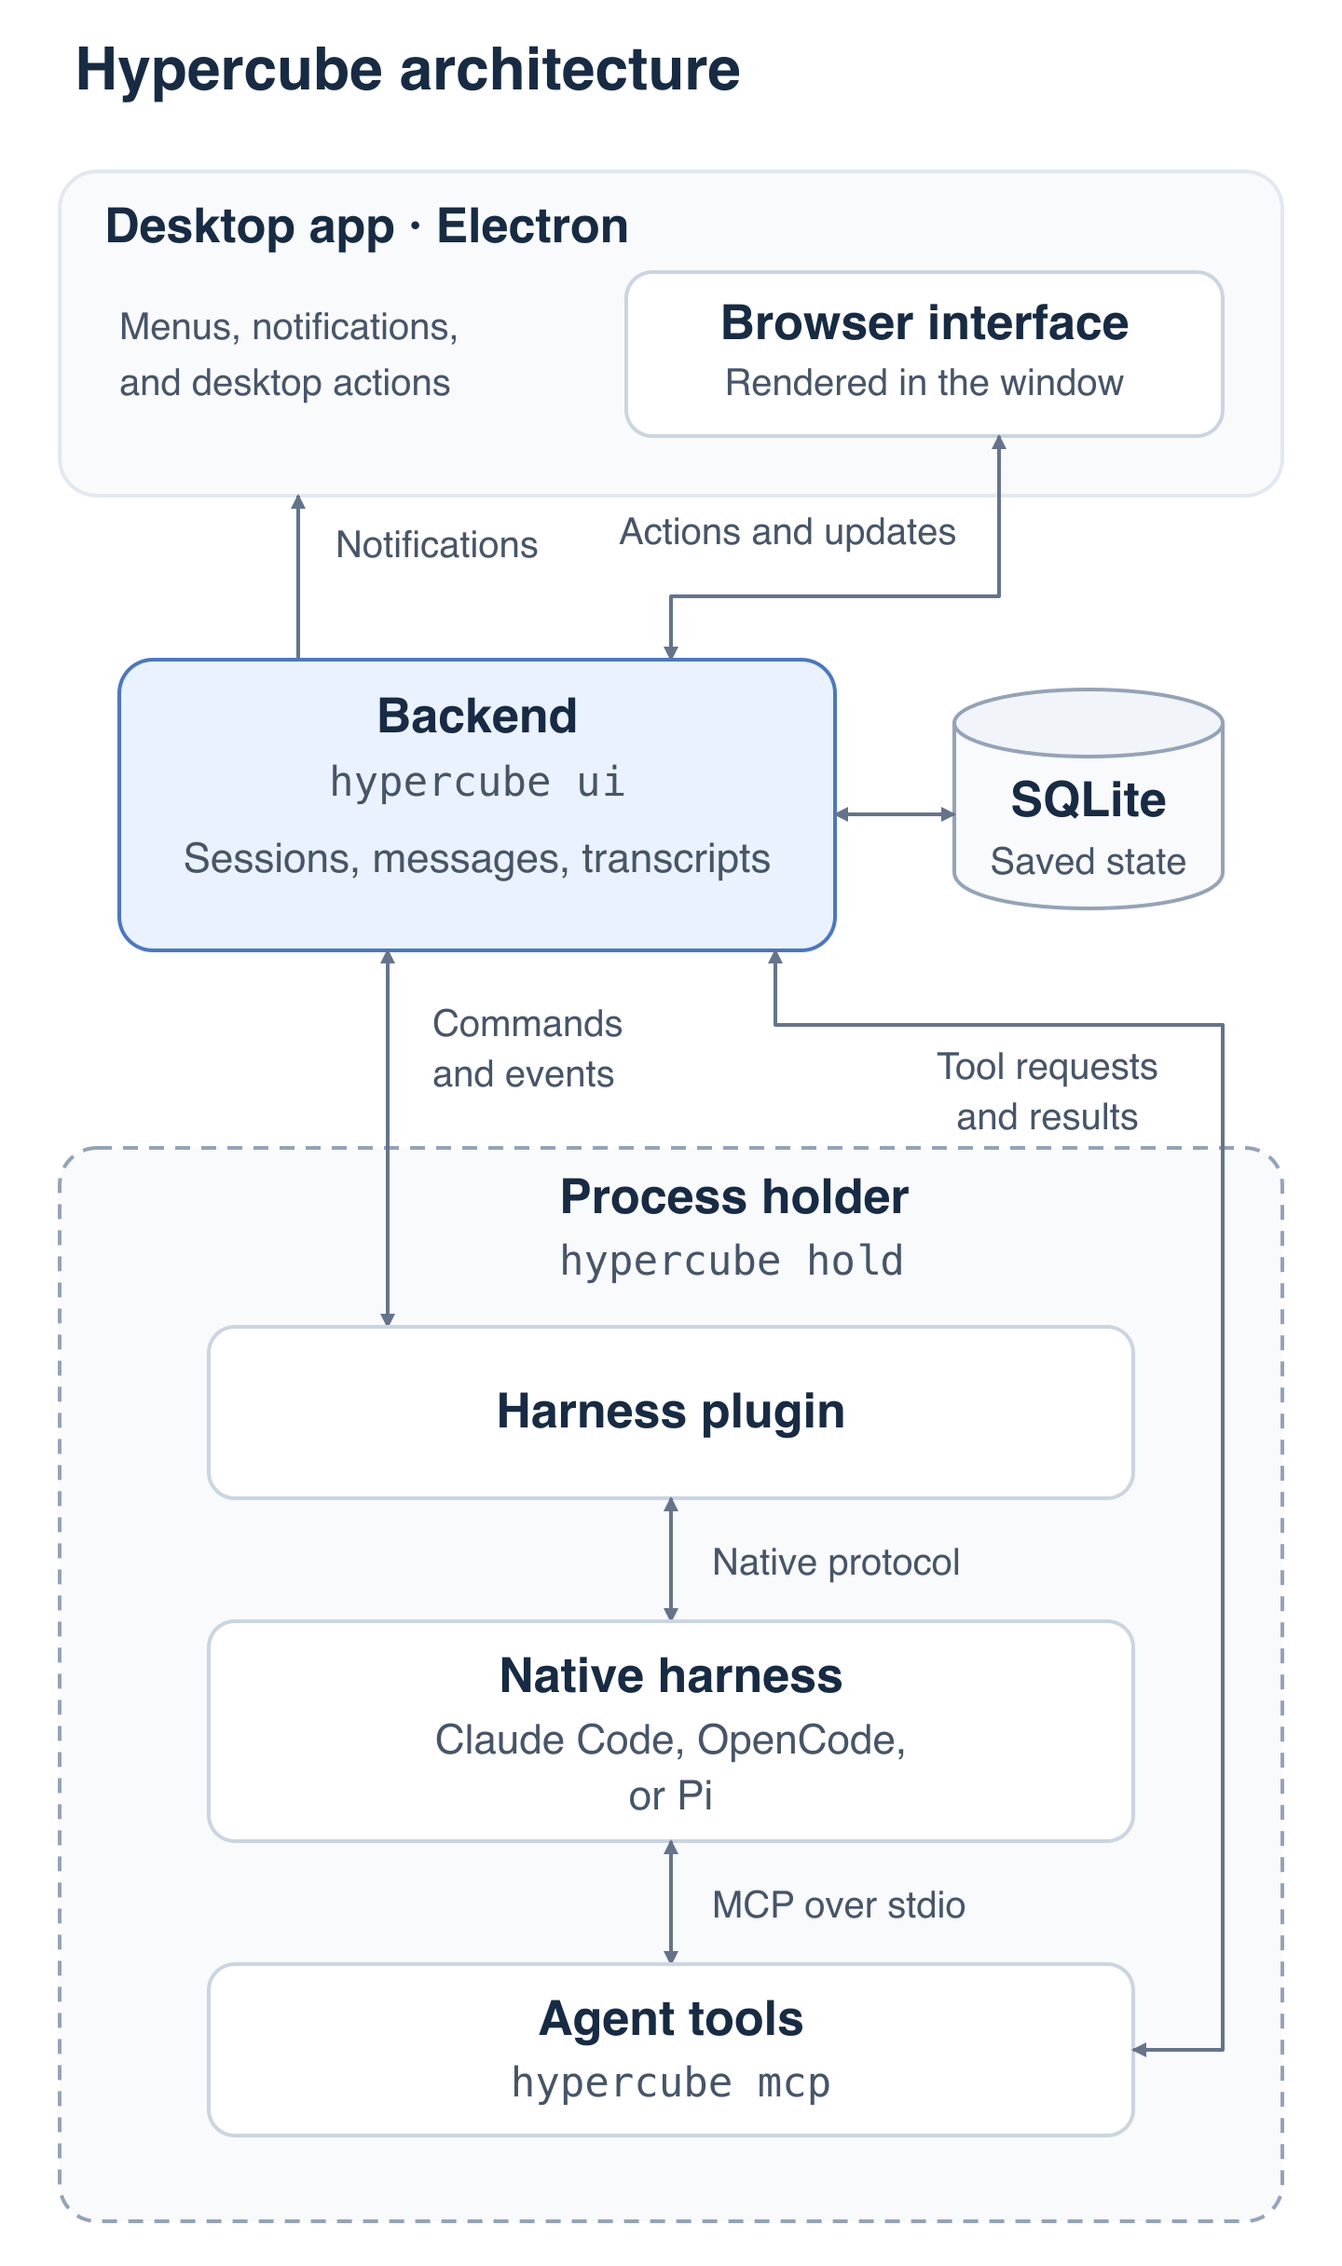
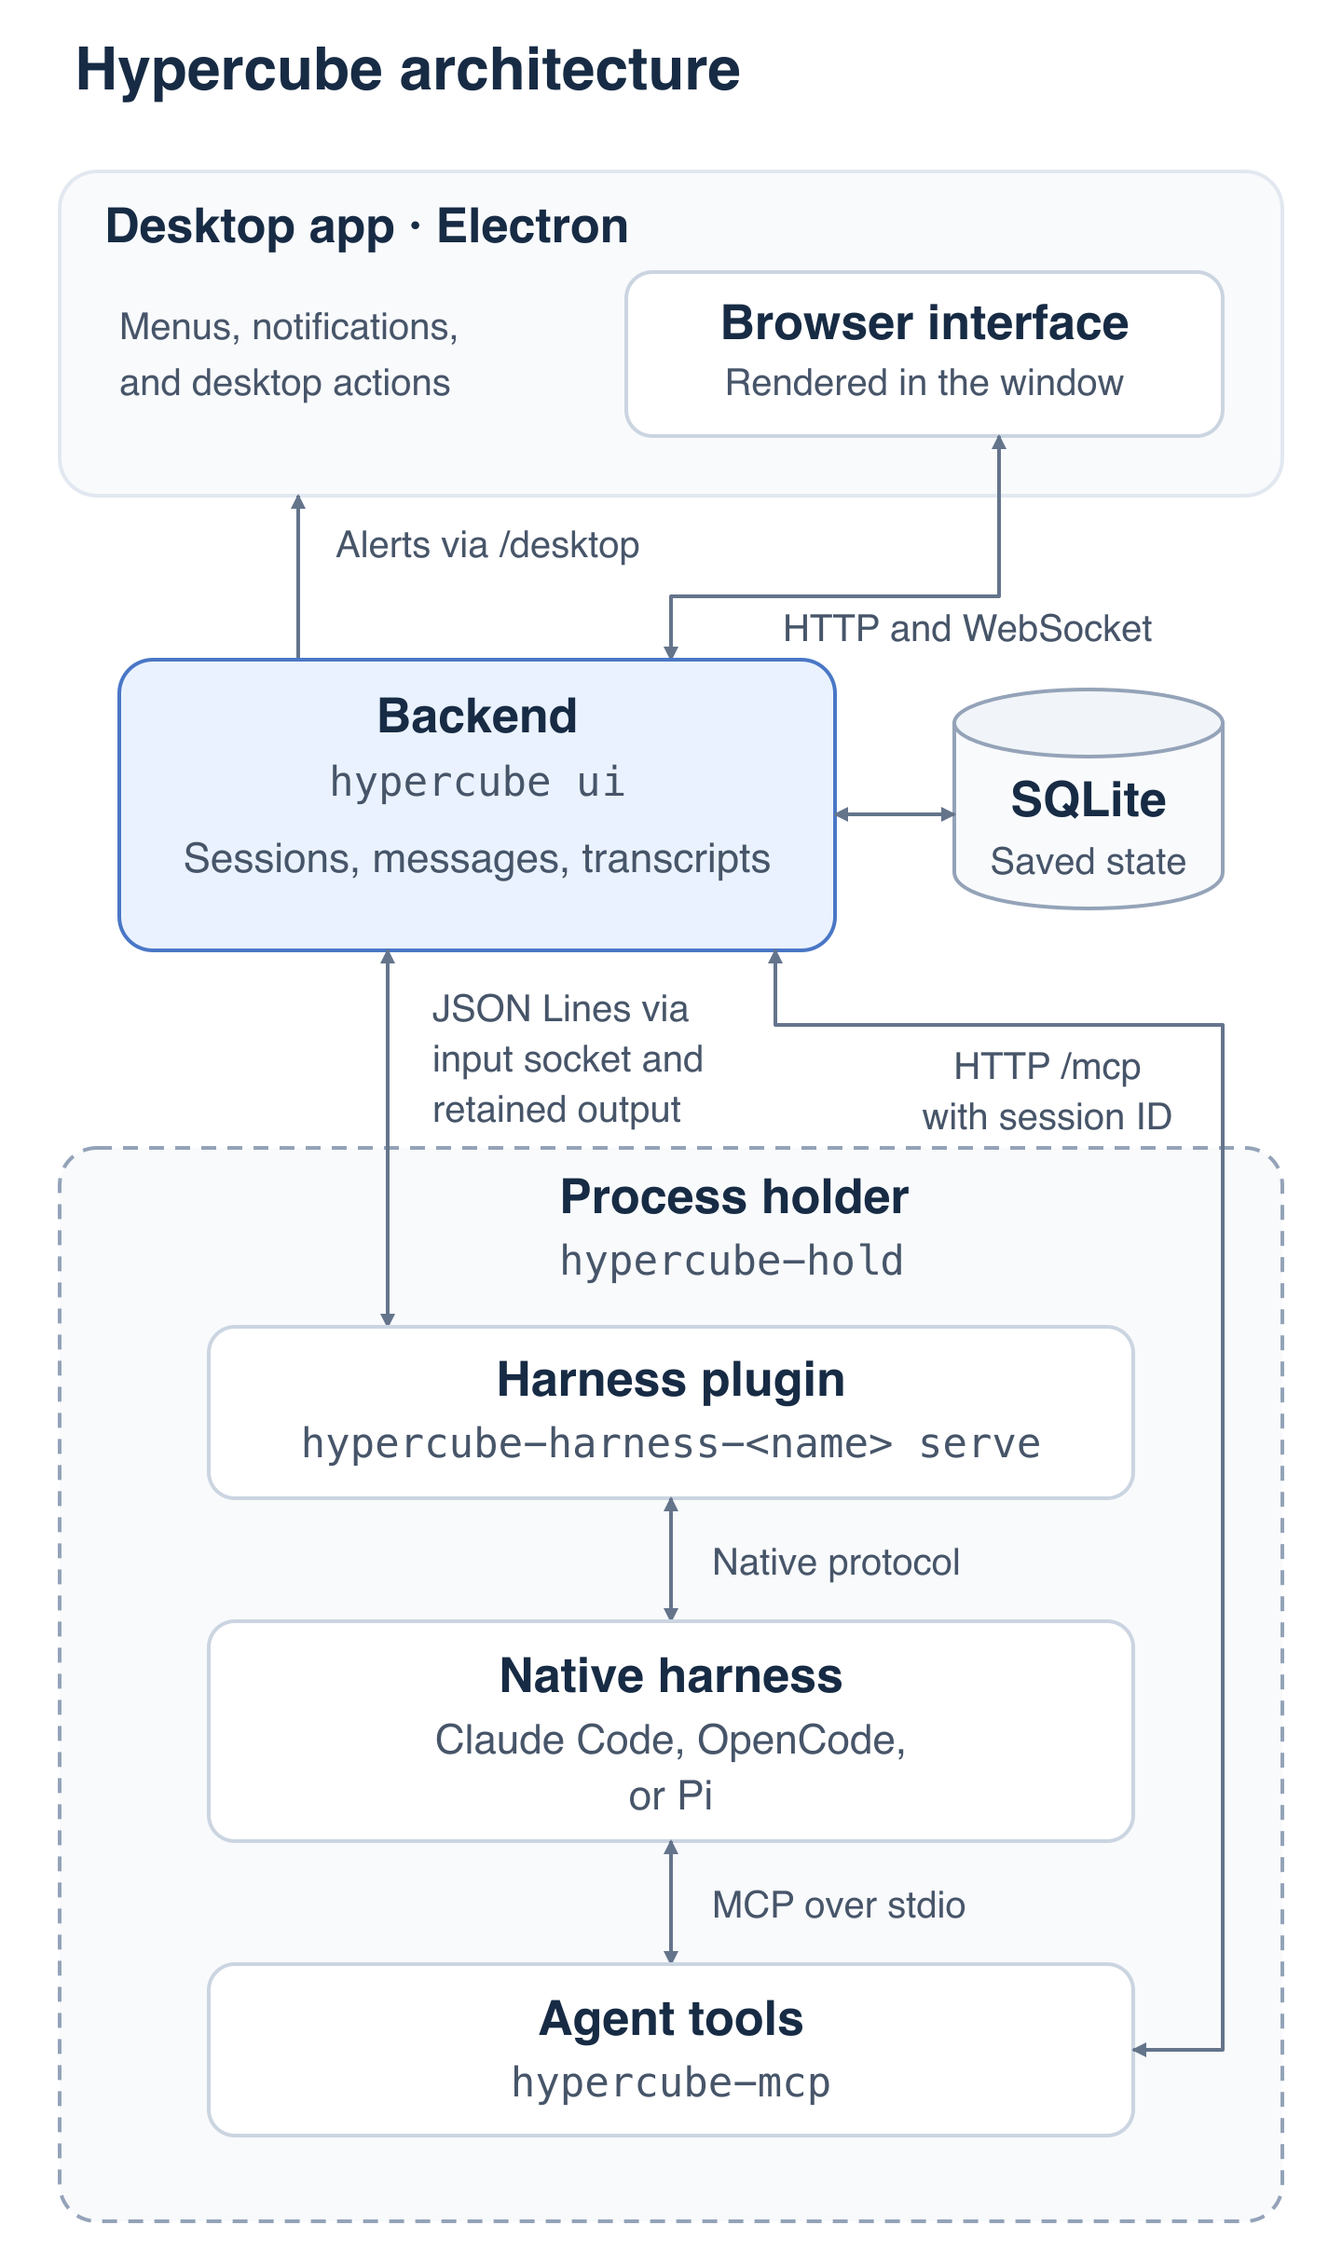
Refresh architecture diagram and audit current documentation

diff --git a/agents/architecture.md b/agents/architecture.md
@@ -4,26 +4,54 @@
 harnesses execute the agents' work. Plugins connect the two, translating each
 harness's protocol into Hypercube commands and transcript events.
 
-![The Electron desktop app contains the browser interface and connects to the
-backend, which owns SQLite state. Each agent runs under a separate process
-holder, with a harness plugin, native harness, and MCP tools that call back
-into the backend.](images/architecture.png)
+![The Electron desktop app connects to hypercube ui, the only SQLite writer.
+Each agent's hypercube-hold runs a harness plugin and native harness.
+The harness's hypercube-mcp bridge calls back into the backend over HTTP.
+Panel shells use separate holders, not shown.](images/architecture.png)
 
 The holder keeps the agent processes alive across backend restarts. Agent tools
 return to the same backend that handles user actions; only the backend writes
 to SQLite.
 
+## Executables and process boundaries
+
+These are separate programs, shipped together in the application bundle:
+
+| Program | Responsibility | Started by |
+| --- | --- | --- |
+| `hypercube ui [port]` | Backend, session runtime, HTTP server, and SQLite state. The default port is `4280`. | Login service or a terminal. |
+| `Hypercube Desktop` (macOS), `hypercube-desktop` (Linux) | Electron window, menus, notifications, and desktop actions. | The user; connects to an independently running backend. |
+| `hypercube-hold` | Detached holder for one plugin or panel shell; owns its input, retained output, and exit record. | Backend, once per agent launch or panel shell. |
+| `hypercube-harness-<name> serve` | Adapter for Claude Code, OpenCode, or Pi. | An agent's holder; the plugin starts the native harness. |
+| `hypercube-mcp` | Stdio MCP bridge to the backend's `/mcp` HTTP route. | Native harness, configured by the plugin. |
+
+`hypercube` also provides `version`; the holder and MCP bridge are not
+subcommands of it. The backend resolves its executable's symlinks and finds
+the helpers and plugins beside the real executable, not on `PATH`. Native
+harness executables are installed separately and found on `PATH`.
+
+Browser actions use HTTP and state updates use a WebSocket. The desktop app
+has its own `/desktop` WebSocket for alerts. Plugin JSON Lines pass through
+the holder's Unix input socket and retained output files, allowing a new
+backend to attach without replacing the plugin. MCP requests go directly
+from the bridge to the backend over loopback HTTP, with the session ID in a
+header; neither helpers nor plugins write Hypercube's database.
+
+See [program discovery](../cmd/hypercube/programs.go),
+[the plugin client](../internal/harnessclient/client.go), and
+[the MCP bridge](../internal/mcpbridge/bridge.go).
+
 ## Plugin protocol
 
-Each `hypercube-harness-<name>` executable runs beside `hypercube`. The app
-starts it with `serve` and exchanges commands and events as JSON Lines. The
-plugin owns the native protocol; the core and browser interface do not name
-individual harnesses.
+Each `hypercube-harness-<name>` executable runs beside `hypercube`. The backend
+starts it with `serve` under a holder and exchanges commands and events as
+JSON Lines. The plugin owns the native protocol; the core and browser interface
+do not name individual harnesses.
 
 The [protocol types](../internal/harness/protocol.go) define commands, replies,
 transcript items, and usage fields. Native mappings live in the
 [Claude Code](../plugins/claude), [OpenCode](../plugins/opencode), and
-[Pi](../plugins/pi) plugins. Restart a session to
+[Pi](../plugins/pi) plugins. Use Restart Agent to
 load a newly installed plugin.
 
 Two one-shot commands, defined in [discovery](../internal/harness/discovery.go),
@@ -56,10 +84,10 @@ bugs are documented there as historical context, not current support.
 ## Why agents outlive the window
 
 An agent plugin runs under a `hypercube-hold` process that owns its input and
-output independently of the app. Panel shells use holders too. A service
-restart, development rebuild, SIGTERM, or app crash therefore leaves those
-processes alive. On startup, the app attaches to surviving launches and
-finishes those that exited or were lost.
+output independently of the backend. Panel shells use separate holders too.
+A service restart, development rebuild, SIGTERM, or backend crash therefore
+leaves those processes alive. On startup, the backend attaches to surviving
+launches and finishes those that exited or were lost.
 
 Each session's agent starts when the session is opened, prompted, or sent a
 message, and ends after the session has been idle and unviewed for 15 minutes.
@@ -77,15 +105,15 @@ See [hold](../internal/hold/hold.go) and
 ## One owner for user actions and agent tools
 
 Each harness starts `hypercube-mcp` as a stdio MCP server. It forwards tool
-requests to the app with the session ID. Browser actions reach the same session
-runtime, so both use one owner of lifecycle and saved state. The runtime
+requests to the backend with the session ID. Browser actions reach the same
+session runtime, so both use one owner of lifecycle and saved state. The runtime
 serializes its operations, releasing its lock before waiting on a plugin:
-a harness can call back into an app tool while a command is in flight.
+a harness can call back into a Hypercube tool while a command is in flight.
 
-The app records commands before sending them. A reply is applied in the same
-transaction that removes its command. After reconnection, unanswered commands
-are resent in ID order. Queued messages are delivered one at a time and removed
-when the plugin accepts them. Acceptance means the harness took the input,
+The backend records commands before sending them. A reply is applied in the
+same transaction that removes its command. After reconnection, unanswered
+commands are resent in ID order. Queued messages are delivered one at a time
+and removed when the plugin accepts them. Acceptance means the harness took the input,
 including into a native queue; it does not mean the model processed it.
 
 The [session runtime](../internal/session/runtime.go),

diff --git a/web/content/features.md b/web/content/features.md
@@ -7,13 +7,13 @@ Hypercube is a macOS and Linux app for coordinating local coding agents.
 
 | What you can do | Learn more |
 | --- | --- |
-| Run Claude Code, OpenCode, and Pi with their own models and credentials. | [Harness differences](/docs/harness-support/) |
-| Send prompts, images, corrections, and answers to questions or approvals. | [Manage sessions](/docs/usage/) |
-| Delegate a bounded task or request an independent review. | [Work with a team](/docs/teamwork/) |
-| Share a checkout or isolate edits in separate Git worktrees. | [Sessions and working copies](/docs/introduction/) |
-| Browse files, search text, inspect diffs, and use a session terminal. | [Review files and changes](/docs/review-changes/) |
-| Keep work running after the app closes and return to saved conversations. | [What keeps running](/docs/lifecycle/) |
-| Arrange split panes, change appearance, and navigate with shortcuts. | [Interface reference](/docs/interface/) |
+| Run Claude Code, OpenCode, and Pi with their own models and credentials. | [Harness differences](docs/harness-support.md) |
+| Send prompts, images, corrections, and answers to questions or approvals. | [Manage sessions](docs/usage.md) |
+| Delegate a bounded task or request an independent review. | [Work with a team](docs/teamwork.md) |
+| Share a checkout or isolate edits in separate Git worktrees. | [Sessions and working copies](docs/introduction.md) |
+| Browse files, search text, inspect diffs, and use a session terminal. | [Review files and changes](docs/review-changes.md) |
+| Keep work running after the app closes and return to saved conversations. | [What keeps running](docs/lifecycle.md) |
+| Arrange split panes, change appearance, and navigate with shortcuts. | [Interface reference](docs/interface.md) |
 
-Start with [installation](/docs/installation/) and the
-[first-session walkthrough](/docs/getting-started/).
+Start with [installation](docs/installation.md) and the
+[first-session walkthrough](docs/getting-started.md).

diff --git a/agents/development.md b/agents/development.md
@@ -13,12 +13,12 @@ Documentation procedures are in [documentation](documentation.md).
 - `cmd/hypercube-mcp/` — the MCP bridge each agent's harness runs.
 - `cmd/hypercube-hold/` — the holder that runs agents' plugins and panel shells.
 - `desktop/` — the Electron desktop app, a client of the backend.
-- `internal/` — one package per concern: `config`, `desktop`, `harness`,
+- `internal/` — one package per concern: `buildinfo`, `config`, `desktop`, `harness`,
   `harnessclient`, `hold`, `mcp`, `mcpbridge`, `report`, `session`, `store`,
   `terminal`, `ui`, `workspace`.
 - `plugins/` — the Claude Code, OpenCode, and Pi harness plugins. The
   core names no harness. `plugins/scripted` plays documentation screenshot
-  scenes and never ships.
+  scenes and never ships; `plugins/internal/plugin` holds shared plugin code.
 - `make/` — the macOS and Linux packaging rules the `Makefile` includes.
 - `scripts/dev` — the isolated development session (`make dev`).
 - `scripts/screenshots` — the documentation screenshots (`make screenshots`).
@@ -253,8 +253,8 @@ installs.
 Follow [Run a development copy](../CONTRIBUTING.md#run-a-development-copy).
 Additional controls:
 
-- `make dev-clean` also removes disposable resources and native development
-  conversations, including holders left by a crash.
+- `make dev-clean` also removes disposable state, holders left by a crash, and
+  Claude Code and OpenCode development conversations.
 - `HYPERCUBE_DEV_DIR` and `HYPERCUBE_DEV_PORT` change the directory and port.
 
 See [scripts/dev](../scripts/dev) for cleanup details.

diff --git a/docs/getting-started.md b/docs/getting-started.md
@@ -16,11 +16,12 @@ A workspace groups the sessions for that project in the sidebar.
 ## 2. Choose your coding tool
 
 First add a model in **Settings › Agents › Models**: choose its harness, enter
-the model ID exactly as the harness names it, and list its effort levels from
-lowest to highest. Choose **Save changes**, then choose the model below
-the message box. Leave the effort at its default. Effort controls
-the model's reasoning level; the available choices depend on the harness and
-model.
+the model ID exactly as the harness names it, give it a display title, and list
+its effort levels from lowest to highest. If there are several levels, select
+the default; leave the list empty for a model without effort levels.
+Choose **Save**, then **Save changes**. Choose the model below the message box
+and leave the effort at its default. Effort controls the model's reasoning
+level; the available choices depend on the harness and model.
 
 If the folder is a Git repository, choose **Existing checkout** for this
 walkthrough. The session will read the files already in that folder.

diff --git a/CONTRIBUTING.md b/CONTRIBUTING.md
@@ -17,15 +17,19 @@ needs `rsvg-convert` and the
    cd hypercube
    ```
 
-2. Start the development app:
+2. Start the development copy. On macOS, open the desktop app:
 
    ```sh
    make dev-app
    ```
 
-3. The desktop window opens with separate configuration and state, using a
-   sample repository at `~/projects/hypercube-dev/repo`. This copy does not
-   replace your installed app.
+   On Linux, use `make dev` and open `http://localhost:4281/` in a browser.
+   The `dev-app` script uses the macOS bundle layout; for Linux desktop
+   validation, use the [Linux test environment](agents/development.md#test-on-linux).
+
+3. The development copy has separate configuration and state, using a sample
+   repository at `~/projects/hypercube-dev/repo`. It does not replace your
+   installed app.
 4. Change a source file. Successful rebuilds reload the interface while
    preserving agents and terminal shells. A failed build leaves the last
    successful build running.

diff --git a/web/content/_index.md b/web/content/_index.md
@@ -9,8 +9,8 @@ Hypercube brings Claude Code, OpenCode, and Pi into one app. Use your
 installed tools and existing credentials. Give each session its own model,
 follow its work, and ask agents to help one another.
 
-[Install Hypercube](/docs/installation/) ·
-[Try your first session](/docs/getting-started/)
+[Install Hypercube](docs/installation.md) ·
+[Try your first session](docs/getting-started.md)
 
 ## One task or a team
 
@@ -29,4 +29,4 @@ Browse files, read diffs, search the project, and open a terminal without leavin
 the session. Answer questions and approvals as they arrive. Close the app
 without ending active agents, then return to their saved conversations.
 
-[Read the documentation](/docs/) · [See features](/features/)
+[Read the documentation](/docs/) · [See features](features.md)

diff --git a/docs/configuration.md b/docs/configuration.md
@@ -26,10 +26,10 @@ See [harness requirements](harness-support.md#requirements).
 
 ## Models
 
-Edit the model picker list in **Settings › Agents › Models**. Each entry names
-a harness, its exact model ID, effort levels ordered from lowest to highest,
-and the effort a session starts with. Leave levels empty for a model without an
-effort control.
+Edit the model picker list in **Settings › Agents › Models**. Each entry needs
+a harness, its exact model ID, and a display title. Add effort levels ordered
+from lowest to highest and the effort a session starts with. Leave levels
+empty for a model without an effort control.
 One level is its own default; several levels require a default from the list.
 
 The `models` field holds the list, empty by default. Each entry is an object

diff --git a/agents/documentation.md b/agents/documentation.md
@@ -37,6 +37,19 @@ Use [Diátaxis](https://diataxis.fr/) to choose a page's purpose:
 
 For prose-only changes, inspect the diff and links; do not run code checks.
 
+## Architecture diagram
+
+The diagram in `agents/architecture.md` uses `agents/images/architecture.png`,
+rendered from the editable `agents/images/architecture.svg`. Update the SVG
+against the current executable names, process ownership, and transports, then
+regenerate the PNG from the repository root with librsvg:
+
+```sh
+rsvg-convert --zoom 2 -o agents/images/architecture.png agents/images/architecture.svg
+```
+
+Open the PNG to check labels and arrows. Commit both source and rendered image.
+
 ## Screenshots
 
 Run `make screenshots` only when captures need changing. It regenerates

diff --git a/docs/upgrades.md b/docs/upgrades.md
@@ -44,9 +44,11 @@ not convert saved state back to that version's format.
 
 ## Load new plugins into existing sessions
 
-An agent that survived the upgrade still uses the plugin it started with.
-Choose **Restart Agent** in that session's context menu to load the installed
-plugin and resume its conversation. A turn in progress is interrupted.
+An agent that survived the upgrade still uses the plugin, holder, and MCP
+bridge it started with. Choose **Restart Agent** in that session's context
+menu to load the installed versions and resume its conversation. A turn in
+progress is interrupted. Restart Agent does not replace a panel shell's
+holder; exit that shell and reopen the terminal to load an updated holder.
 
 ## Check the running version
 

diff --git a/agents/todo.md b/agents/todo.md
@@ -1,4 +1,9 @@
-# Linux support
+# Linux support rollout (completed)
+
+This is the completed rollout checklist, retained as history. Harness counts
+and task descriptions below reflect the rollout, not current support. Use
+[development](development.md#test-on-linux) for current Linux tooling and
+[architecture](architecture.md) for the current executable layout.
 
 Run the same Hypercube backend, four harness plugins, browser view, and
 Electron desktop app on Linux AMD64 and ARM64 across Debian, Ubuntu, Fedora,
